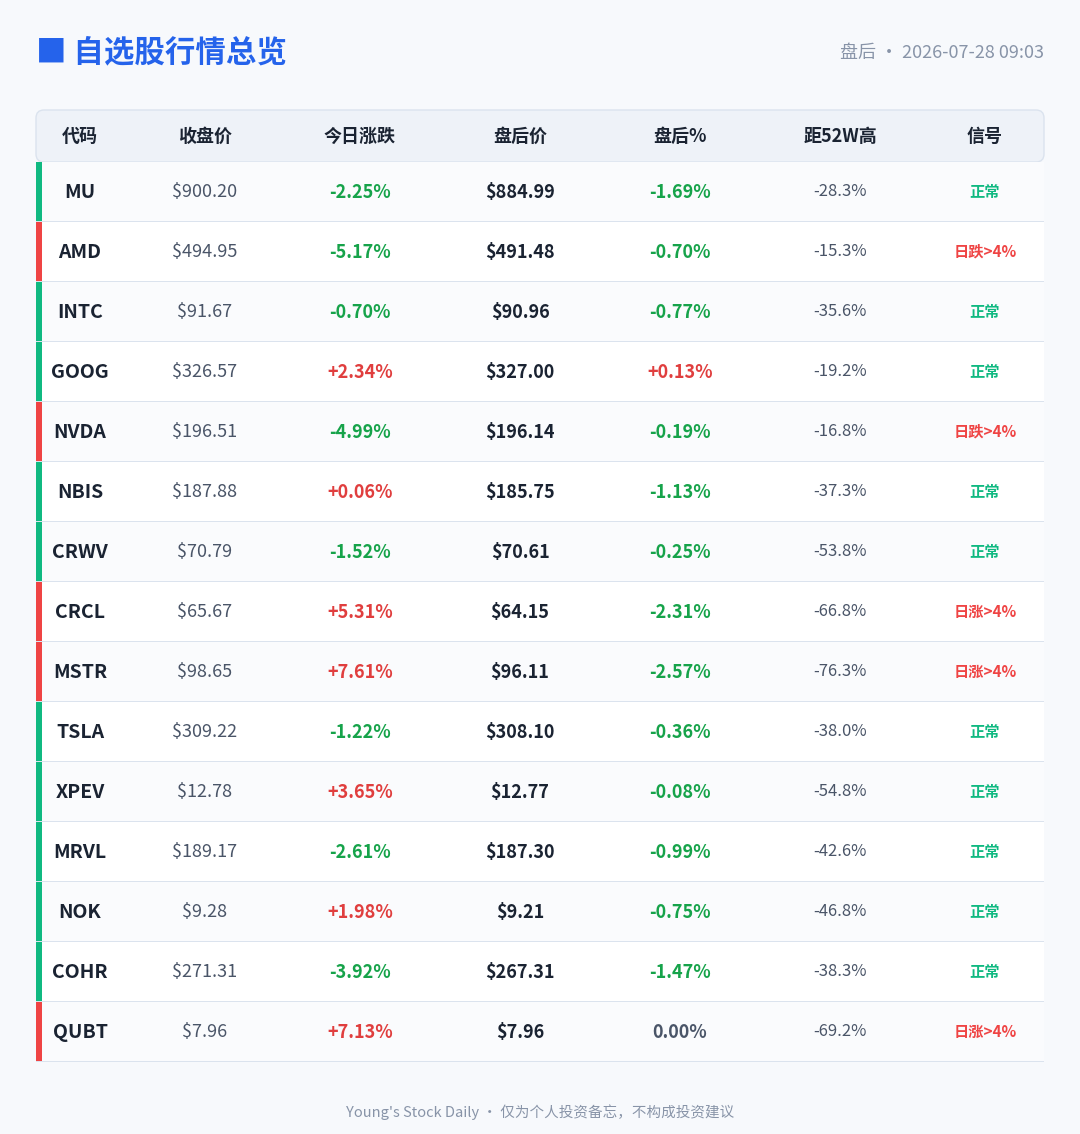
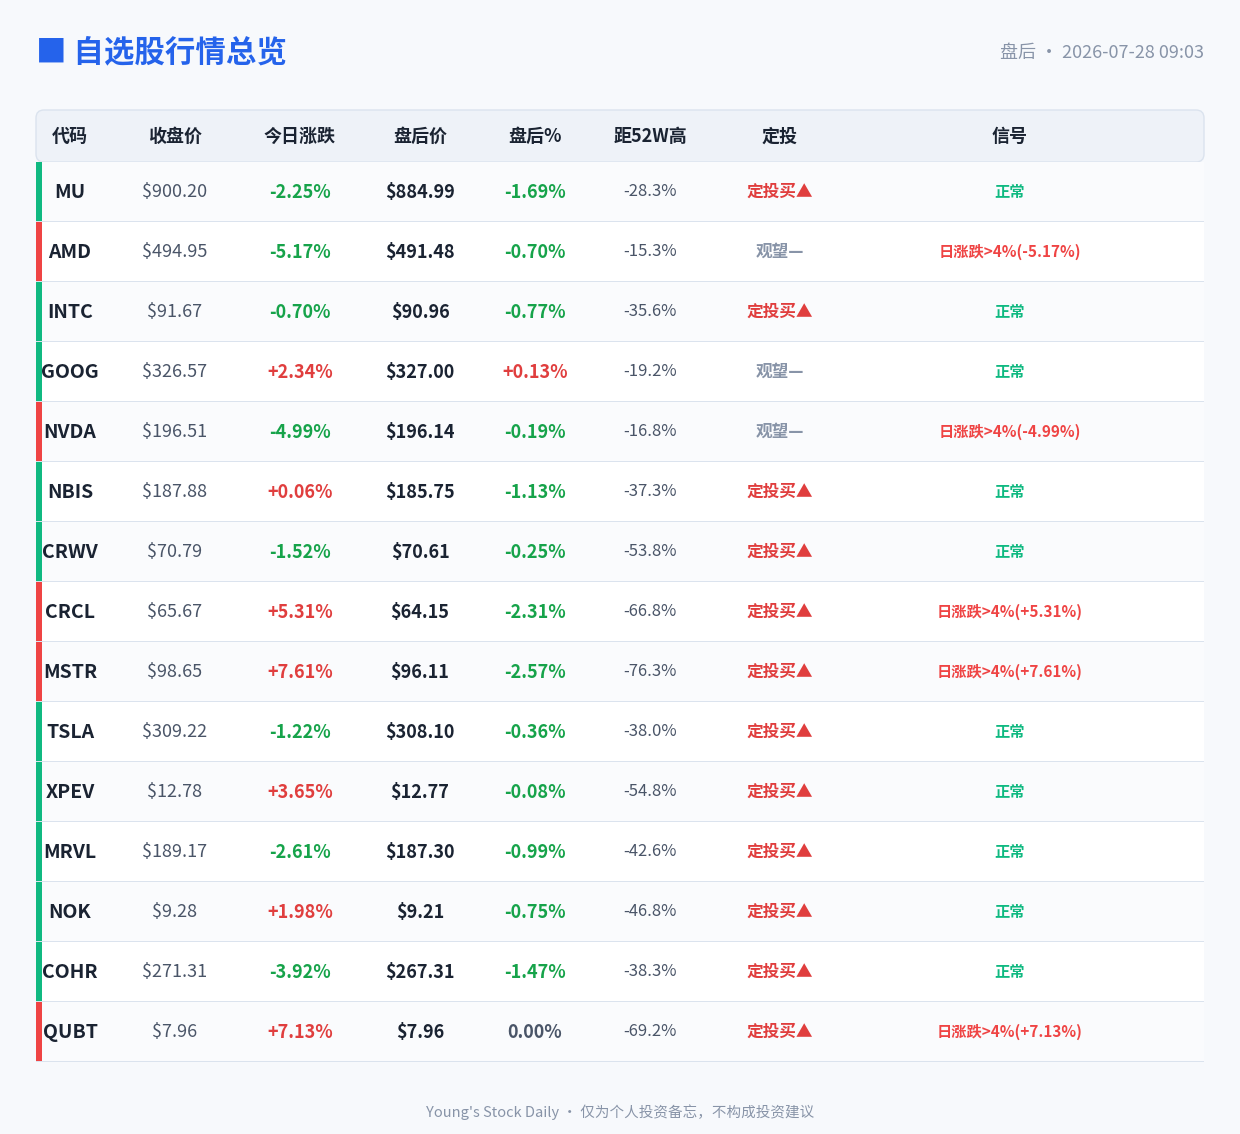
feat: 总览图新增定投买卖建议列 + 定投买卖点分析(步骤2.55)；补跑更新今早0728报告

diff --git a/skills/stock-and-web3/scripts/render_overview.py b/skills/stock-and-web3/scripts/render_overview.py
@@ -96,6 +96,66 @@ def color_pct(v):
     return C['red'] if v > 0 else C['green'] if v < 0 else C['sub']
 
 
+# ---------- 定投买卖点判定（与 SKILL.md 步骤 2.55 口径一致） ----------
+def compute_advice(s):
+    """返回 (label, color)。三档：定投买(红)/定投卖(绿)/观望(灰)。
+    优先取股票自带的 advice_label，没有则按规则现算。"""
+    # 若上游已算好，直接用
+    lbl = s.get('advice_label') or s.get('advice')
+    if lbl:
+        if '买' in lbl:
+            return '定投买▲', C['red']
+        if '卖' in lbl:
+            return '定投卖▼', C['green']
+        return '观望—', C['muted']
+
+    rsi = s.get('rsi6')
+    d52h = s.get('dist_52w_high') if s.get('dist_52w_high') is not None else s.get('dist_from_52w_high_pct')
+    pct1d = s.get('pct_1d')
+    ext = s.get('extended_pct')
+    if ext is None:
+        ext = s.get('premarket_pct')
+    if ext is None:
+        ext = s.get('extended_pct_vs_close')
+
+    def _drop():  # 当日或盘前盘后最大跌幅（正数表示跌幅）
+        vals = [x for x in (pct1d, ext) if x is not None]
+        return -min(vals) if vals else None
+
+    def _rise():  # 当日或盘前盘后最大涨幅
+        vals = [x for x in (pct1d, ext) if x is not None]
+        return max(vals) if vals else None
+
+    # ---- 卖出信号（优先）----
+    if rsi is not None:
+        if rsi > 85:
+            return '定投卖▼', C['green']
+        if d52h is not None and d52h > -2 and rsi > 70:
+            return '定投卖▼', C['green']
+        r = _rise()
+        if r is not None and r > 10 and rsi > 75:
+            return '定投卖▼', C['green']
+    # ---- 买入信号 ----
+    if rsi is not None:
+        if rsi < 20:
+            return '定投买▲', C['red']
+        if d52h is not None and d52h < -20 and rsi < 45:
+            return '定投买▲', C['red']
+        dp = _drop()
+        if dp is not None and dp > 6 and rsi < 40:
+            return '定投买▲', C['red']
+        return '观望—', C['muted']
+    # ---- RSI 缺失：降级为纯价格判定 ----
+    if d52h is not None and d52h < -20:
+        return '定投买▲', C['red']
+    dp = _drop()
+    if dp is not None and dp > 6:
+        return '定投买▲', C['red']
+    if d52h is not None and d52h > -2:
+        return '定投卖▼', C['green']
+    return '观望—', C['muted']
+
+
 # ---------- 主渲染 ----------
 def render(data, out_path):
     setup_font()
@@ -114,7 +174,7 @@ def render(data, out_path):
     ext_label = '盘后' if is_afterhours else ('盘中' if is_realtime else '盘前')
 
     # ====== 布局参数 ======
-    W = 1080
+    W = 1240
     PAD_X = 36
     HEADER_H = 110
     TABLE_HEADER_H = 52
@@ -148,9 +208,9 @@ def render(data, out_path):
     y = HEADER_H
 
     # ===== 表头 =====
-    # 7 列布局
-    cols_x = [80, 205, 360, 520, 680, 840, 985]
-    cols_name = ['代码', '收盘价', '今日涨跌', f'{ext_label}价', f'{ext_label}%', '距52W高', '信号']
+    # 8 列布局（新增"定投"列）
+    cols_x = [70, 175, 300, 420, 535, 650, 780, 1010]
+    cols_name = ['代码', '收盘价', '今日涨跌', f'{ext_label}价', f'{ext_label}%', '距52W高', '定投', '信号']
 
     ax.add_patch(FancyBboxPatch(
         (PAD_X, y), W - 2 * PAD_X, TABLE_HEADER_H,
@@ -224,7 +284,13 @@ def render(data, out_path):
         ax.text(cols_x[5], cy, d52_text,
                 fontsize=12, color=d52_color, va='center', ha='center')
 
-        # 7 信号
+        # 7 定投买卖建议
+        adv_label, adv_color = compute_advice(s)
+        ax.text(cols_x[6], cy, adv_label,
+                fontsize=12, fontweight='bold', color=adv_color,
+                va='center', ha='center')
+
+        # 8 信号
         if signals:
             label = signals[0]
             if len(label) > 14:
@@ -232,7 +298,7 @@ def render(data, out_path):
         else:
             label = '正常'
         label_color = C['fire'] if has_fire else (C['orange'] if has_warn else C['ok'])
-        ax.text(cols_x[6], cy, label,
+        ax.text(cols_x[7], cy, label,
                 fontsize=11, fontweight='bold', color=label_color,
                 va='center', ha='center')
 

diff --git a/skills/stock-and-web3/SKILL.md b/skills/stock-and-web3/SKILL.md
@@ -185,9 +185,29 @@ python3 /data/workspace/.agent/skills/stock-and-web3/scripts/fetch_quotes.py MU,
   <li><strong>新闻：</strong>...</li>
   <li><strong>评级：</strong>...</li>
   <li><strong>事件：</strong>...</li>
+  <li><strong>🎯 定投信号：</strong><span style="color:#dc2626">🟢 定投买（抄底）</span> — RSI6=13.2超卖 + 距52W高-24% + 单日-6.2%，回调中，建议分批定投买入</li>
   <li><strong>建议：</strong>...</li>
 </ul>
-<!-- 重复 11 只 -->
+<!-- 重复 15 只。🎯 定投信号 = 由"定投买卖点判定规则"（见步骤 2.55）产出，三档取值：
+     🟢 定投买（抄底） / 🔴 定投卖（破顶） / ⚪ 观望持有；文案必须写明触发的量化依据 -->
+
+<h3>🎯 定投买卖点建议（全量 15 只）</h3>
+<!-- 每次必出，覆盖全部自选股；信号规则见步骤 2.55 -->
+<table class="stock-table">
+<thead><tr>
+  <th>代码</th><th>名称</th><th>收盘价</th><th>RSI6</th><th>距52W高</th><th>定投信号</th><th>依据 / 操作建议</th>
+</tr></thead>
+<tbody>
+<tr>
+  <td><strong>MU</strong></td><td>美光科技</td><td>$518.46</td><td>13.2</td>
+  <td>-24.0%</td>
+  <td><span style="color:#dc2626">🟢 定投买</span></td>
+  <td>RSI6超卖+深度回调，分批抄底</td>
+</tr>
+<!-- 15 只全部列出。定投信号三档：
+     🟢 定投买（color:#dc2626） / 🔴 定投卖（color:#16a34a） / ⚪ 观望（color:#6b7280） -->
+</tbody>
+</table>
 
 <h3>🏷 板块关联分析</h3>
 <ul>
@@ -224,6 +244,48 @@ python3 /data/workspace/.agent/skills/stock-and-web3/scripts/fetch_quotes.py MU,
 - 严禁省略外层 `<div class="stock-report">` 包裹
 
 **绝对禁止**：只生成一个概览表格就结束——那是"摘要"不是"报告"。逐股详解是用户查看报告的核心价值。
+
+### 步骤 2.55：定投买卖点判定（🎯 每只股票必做）
+
+**目的**：在纯行情/新闻描述之外，为每只自选股给出一个**确定性的定投操作信号**，回答用户核心诉求——"现在是该定投买（下跌抄底）、定投卖（破顶卖出），还是观望持有？"。信号必须由下列量化规则机械推导，**不得凭感觉主观打分**，保证每天口径一致、可复现。
+
+**输入字段**（全部来自步骤 2 的 `fetch_quotes.py` 输出，无需新数据源）：
+- `rsi6`（6日RSI，超买超卖）
+- `dist_from_52w_high_pct`（距52周高点百分比，负值=低于高点）
+- `low_52w` / `high_52w` / `close_price` → 计算 `dist_from_52w_low_pct = (close - low_52w)/low_52w*100`
+- `pct_1d`（当日涨跌）、`extended_pct`（盘前/盘后涨跌）
+- `kdj_k`（辅助）；sparkline.json / performance.json 的近期走势（辅助佐证趋势方向）
+
+**三档信号判定规则（按优先级从上到下，命中即定，不再往下判）：**
+
+```
+🔴 定投卖（破顶卖出）—— 命中任一即触发：
+   1. RSI6 > 85（超买）
+   2. dist_from_52w_high_pct > -2%（贴近/创52周新高）且 rsi6 > 70
+   3. 单日或盘前盘后涨幅 > 10% 且 rsi6 > 75（冲高情绪过热）
+   → 文案含"分批止盈 / 破顶减仓"，color:#16a34a（绿）
+
+🟢 定投买（下跌抄底）—— 未触发卖出信号，且命中任一即触发：
+   1. RSI6 < 20（超卖）
+   2. dist_from_52w_high_pct < -20%（较高点深度回撤 ≥20%）且 rsi6 < 45
+   3. 单日或盘前盘后跌幅 > 6% 且 rsi6 < 40（恐慌错杀）
+   → 文案含"分批定投买入 / 逢跌加仓"，color:#dc2626（红）
+
+⚪ 观望持有 —— 以上均未命中：
+   → 文案："信号中性，维持定投节奏 / 持有观望"，color:#6b7280（灰）
+```
+
+**特殊标注（叠加在三档之上，非独立档位）：**
+- 若命中财报/重大事件窗口（见步骤 2.7 财报检测 或 `upcoming_events` 3日内有财报）→ 信号后追加"⚠事件窗口，建议财报后再动手"
+- 若 `rsi6` 为 None（技术指标缺失）→ 降级为纯价格判定（只用 dist_52w + 涨跌幅两组规则），并在文案标注"（RSI缺失，仅价格判定）"
+
+**落地位置（两处，必须同时写）：**
+1. 逐股详解每只股 `<ul>` 中新增 `🎯 定投信号` 条目（见步骤 2.5 模板）
+2. 新增独立汇总表 `🎯 定投买卖点建议（全量 15 只）`，插在"逐股详解"与"板块关联分析"之间（见步骤 2.5 模板）
+
+**微信简报补充**：第二条 notify 的"📈 自选股行情"区块新增一行 `・定投信号：` 汇总当日出现的买/卖信号（如 `🟢买 3 只(MU/XPEV/CRCL) 🔴卖 1 只(INTC) ⚪其余观望`），无买卖信号时写"全部观望"。
+
+**颜色纪律**：定投买=红 `#dc2626`（与红涨绿跌一致，买入抄底=看多=红），定投卖=绿 `#16a34a`，观望=灰 `#6b7280`。
 
 ### 步骤 2.6：数据验证护栏
 
@@ -368,6 +430,7 @@ git push "https://x-access-token:${TOKEN}@github.com/tracyyoung666/YoungStockDai
 
   ━━━ 📈 自选股行情 ━━━
   ・异常信号：<列 1-3 条关键异常>
+  ・定投信号：<🟢买 X 只(代码) 🔴卖 Y 只(代码) ⚪其余观望；无买卖则写"全部观望">
   ・建议动作：<列 1-2 条>
 
   ━━━ 🪙 Web3 日报 ━━━
